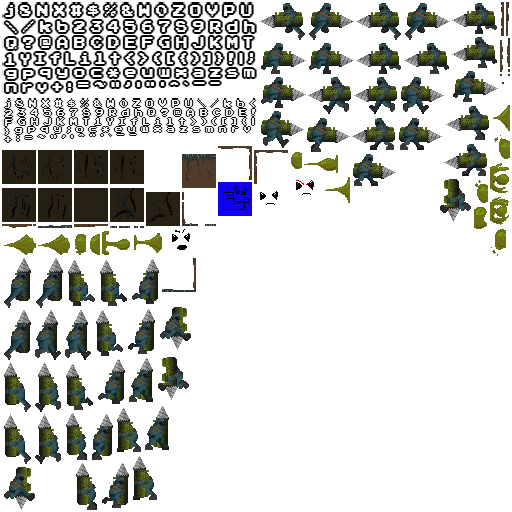
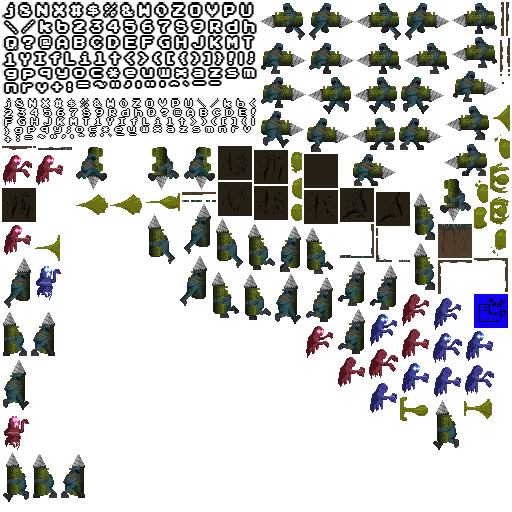
ghosts

Changed region(s): [[0.0, 0.2812, 1.0, 1.0]]

diff --git a/Assets/Scripts/GameObjects/DamageIndicator.cs b/Assets/Scripts/GameObjects/DamageIndicator.cs
@@ -4,44 +4,46 @@ using System.Linq;
 using System.Text;
 using UnityEngine;
 
-	public class DamageIndicator : FLabel
-	{
-        float xVel;
-        float yVel;
-        const float xMax = 200;
-        const float yMax = 200;
+public class DamageIndicator : FLabel
+{
+    float xVel;
+    float yVel;
+    const float xMax = 200;
+    const float yMax = 200;
 
-        public DamageIndicator(Vector2 position) : base(C.SmallFont, "-1")
-        {
-            this.SetPosition(position);
+    public DamageIndicator(Vector2 position, bool didDamage = true)
+        : base(C.SmallFont, didDamage ? "-1" : "0")
+    {
+        this.SetPosition(position);
 
+        if (didDamage)
             this.color = Color.red;
-            xVel = RXRandom.Float() * xMax - xMax / 2;
-            yVel = yMax;
-        }
+        xVel = RXRandom.Float() * xMax - xMax / 2;
+        yVel = yMax;
+    }
 
-        public override void HandleAddedToStage()
-        {
-            Futile.instance.SignalUpdate += Update;
-            base.HandleAddedToStage();
-        }
+    public override void HandleAddedToStage()
+    {
+        Futile.instance.SignalUpdate += Update;
+        base.HandleAddedToStage();
+    }
 
-        public override void HandleRemovedFromStage()
-        {
-            Futile.instance.SignalUpdate -= Update;
-            base.HandleRemovedFromStage();
-        }
-        public void Update()
-        {
-            
-            this.x += xVel * UnityEngine.Time.deltaTime;
-            this.y += yVel * UnityEngine.Time.deltaTime;
-            this.alpha -= 1.0f * UnityEngine.Time.deltaTime;
-            this.scale -= 1.0f * UnityEngine.Time.deltaTime;
-            yVel -= 800 * UnityEngine.Time.deltaTime;
+    public override void HandleRemovedFromStage()
+    {
+        Futile.instance.SignalUpdate -= Update;
+        base.HandleRemovedFromStage();
+    }
+    public void Update()
+    {
 
-            if (this.alpha <= 0)
-                this.RemoveFromContainer();
-        }
-	}
+        this.x += xVel * UnityEngine.Time.deltaTime;
+        this.y += yVel * UnityEngine.Time.deltaTime;
+        this.alpha -= 1.0f * UnityEngine.Time.deltaTime;
+        this.scale -= 1.0f * UnityEngine.Time.deltaTime;
+        yVel -= 800 * UnityEngine.Time.deltaTime;
+
+        if (this.alpha <= 0)
+            this.RemoveFromContainer();
+    }
+}
 

diff --git a/Assets/Scripts/GameObjects/Enemies/SpaceGhost.cs b/Assets/Scripts/GameObjects/Enemies/SpaceGhost.cs
@@ -32,10 +32,10 @@ public class SpaceGhost : BaseGameObject
         originalPos = this.GetPosition();
         this.health = 10;
 
-        sprite = new FAnimatedSprite("spaceGhost/spaceGhost");
-        sprite.addAnimation(new FAnimation("idle", new int[] { 1 }, animSpeed));
-        sprite.addAnimation(new FAnimation("chase", new int[] { 2 }, animSpeed, true));
-        sprite.addAnimation(new FAnimation("stun", new int[] { 3 }, animSpeed, true));
+        sprite = new FAnimatedSprite("spaceGhost1/spaceGhost1");
+        sprite.addAnimation(new FAnimation("idle", new int[] { 1,2,3,4 }, animSpeed));
+        sprite.addAnimation(new FAnimation("chase", new int[] { 5,6,7,8 }, animSpeed, true));
+        sprite.addAnimation(new FAnimation("stun", new int[] { 9 }, animSpeed, true));
 
         sprite.play("idle");
         currentState = State.IDLE;
@@ -78,7 +78,7 @@ public class SpaceGhost : BaseGameObject
                 {
                     Vector2 normVect = playerRelativePos.normalized;
                     x -= normVect.x * UnityEngine.Time.deltaTime * chaseSpeed;
-                    if (normVect.x < 0)
+                    if (normVect.x > 0)
                         sprite.scaleX = -1;
                     else
                         sprite.scaleX = 1;

diff --git a/Assets/Scripts/GameObjects/BaseGameObject.cs b/Assets/Scripts/GameObjects/BaseGameObject.cs
@@ -46,7 +46,9 @@ public class BaseGameObject : FContainer
         this.health -= damageAmount;
         lastDamageCounter = 0;
         for (int i = 0; i < damageAmount; i++)
-            Futile.stage.AddChild(new DamageIndicator(this.GetPosition()));
+            Futile.stage.AddChild(new DamageIndicator(this.GetPosition() ));
+        if (damageAmount == 0)
+            Futile.stage.AddChild(new DamageIndicator(this.GetPosition(), false));
         if (this.health <= 0)
             this.die();
     }

diff --git a/Assets/Scripts/GameObjects/Player.cs b/Assets/Scripts/GameObjects/Player.cs
@@ -111,7 +111,7 @@ public class Player : BaseGameObject
         this.AddChild(sprite);
         this.AddChild(sparkParticleSystem);
 
-        this.damage = 1;
+        this.damage = 0;
     }
 
 
